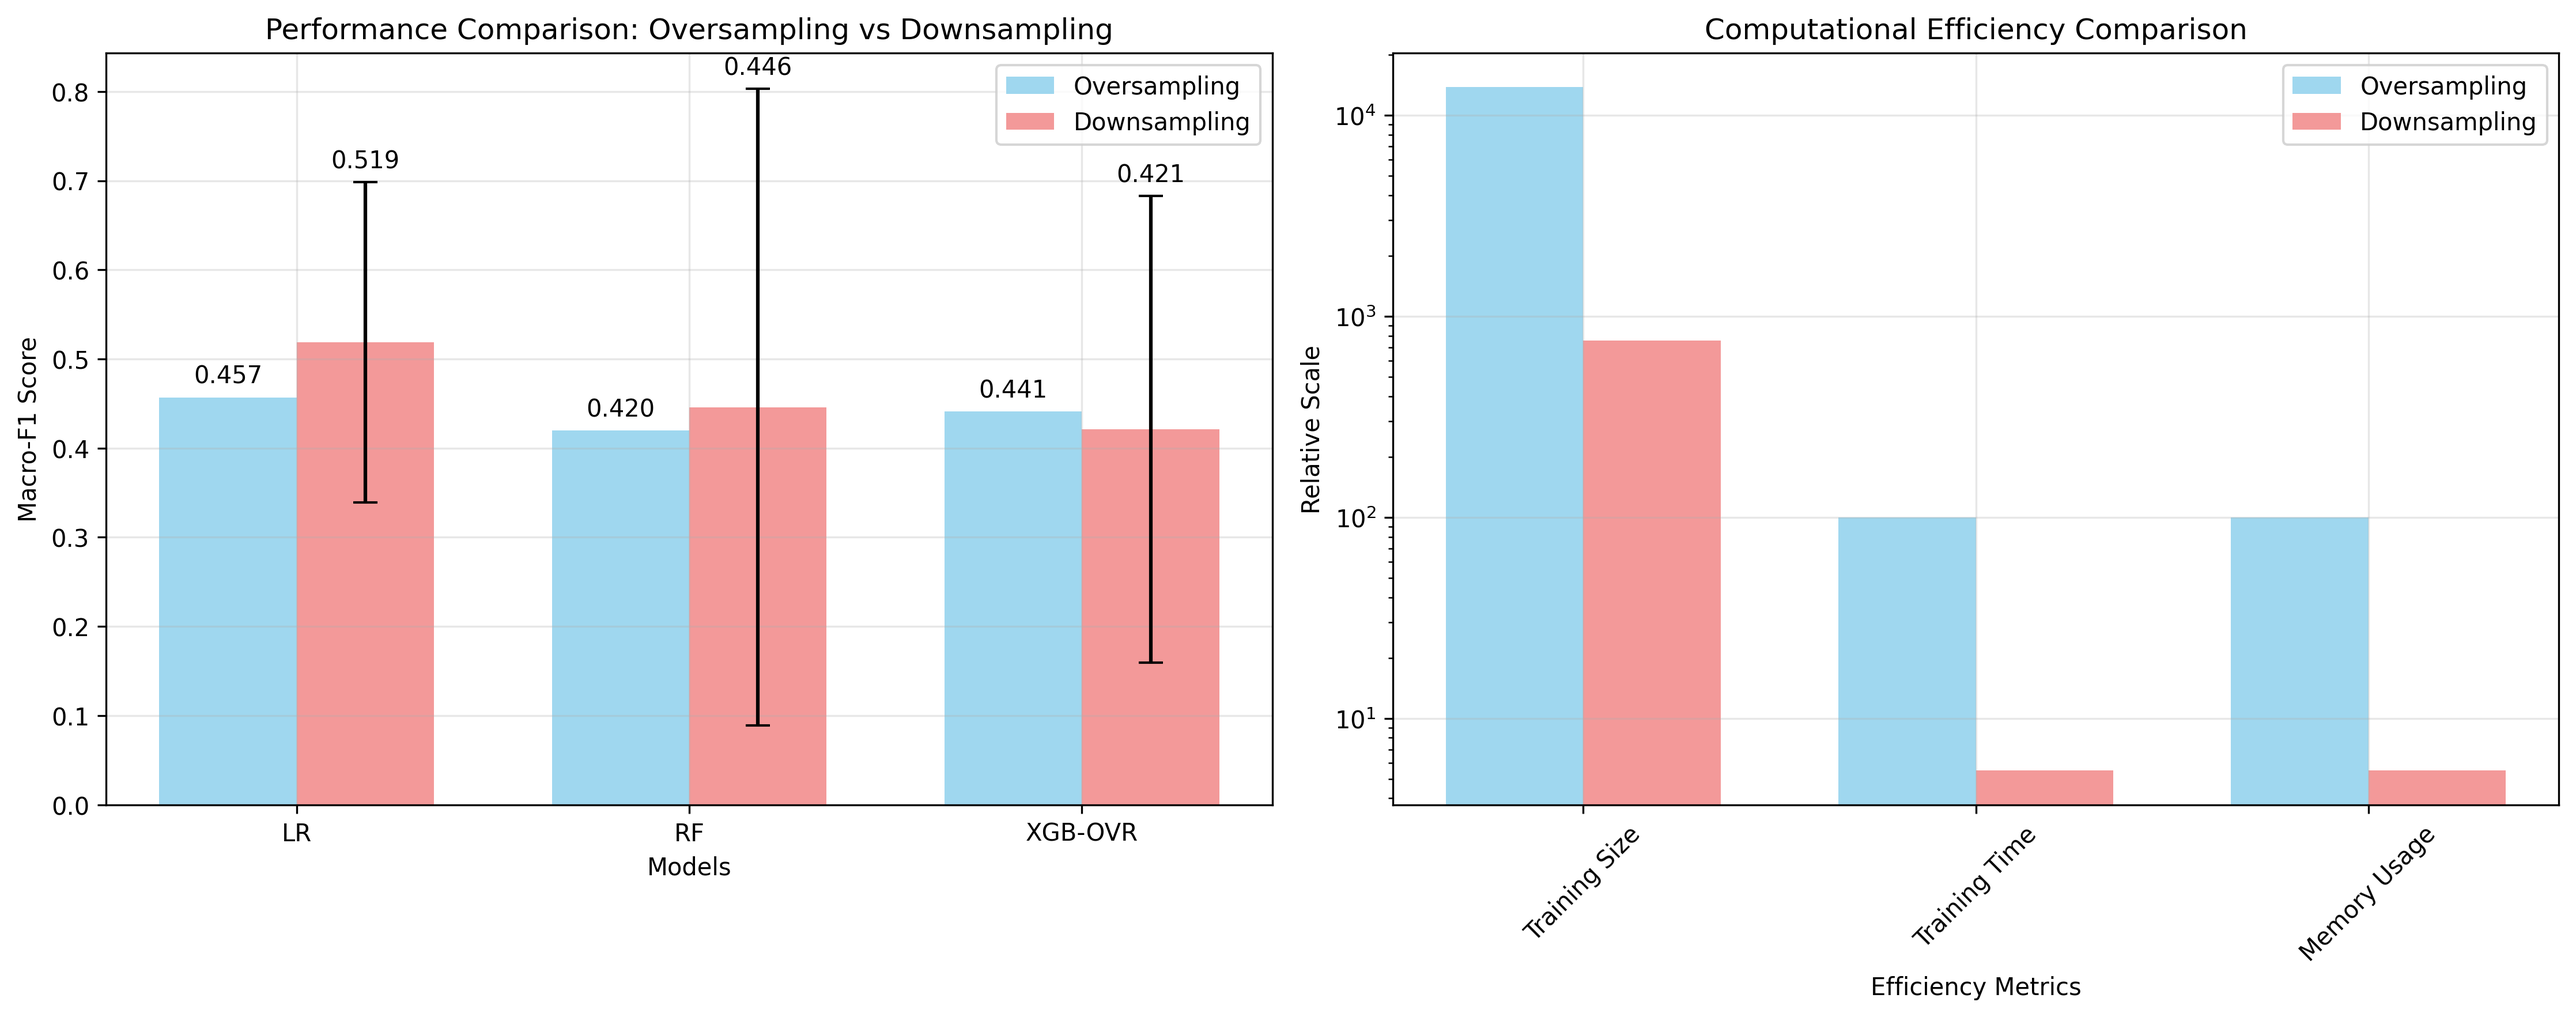
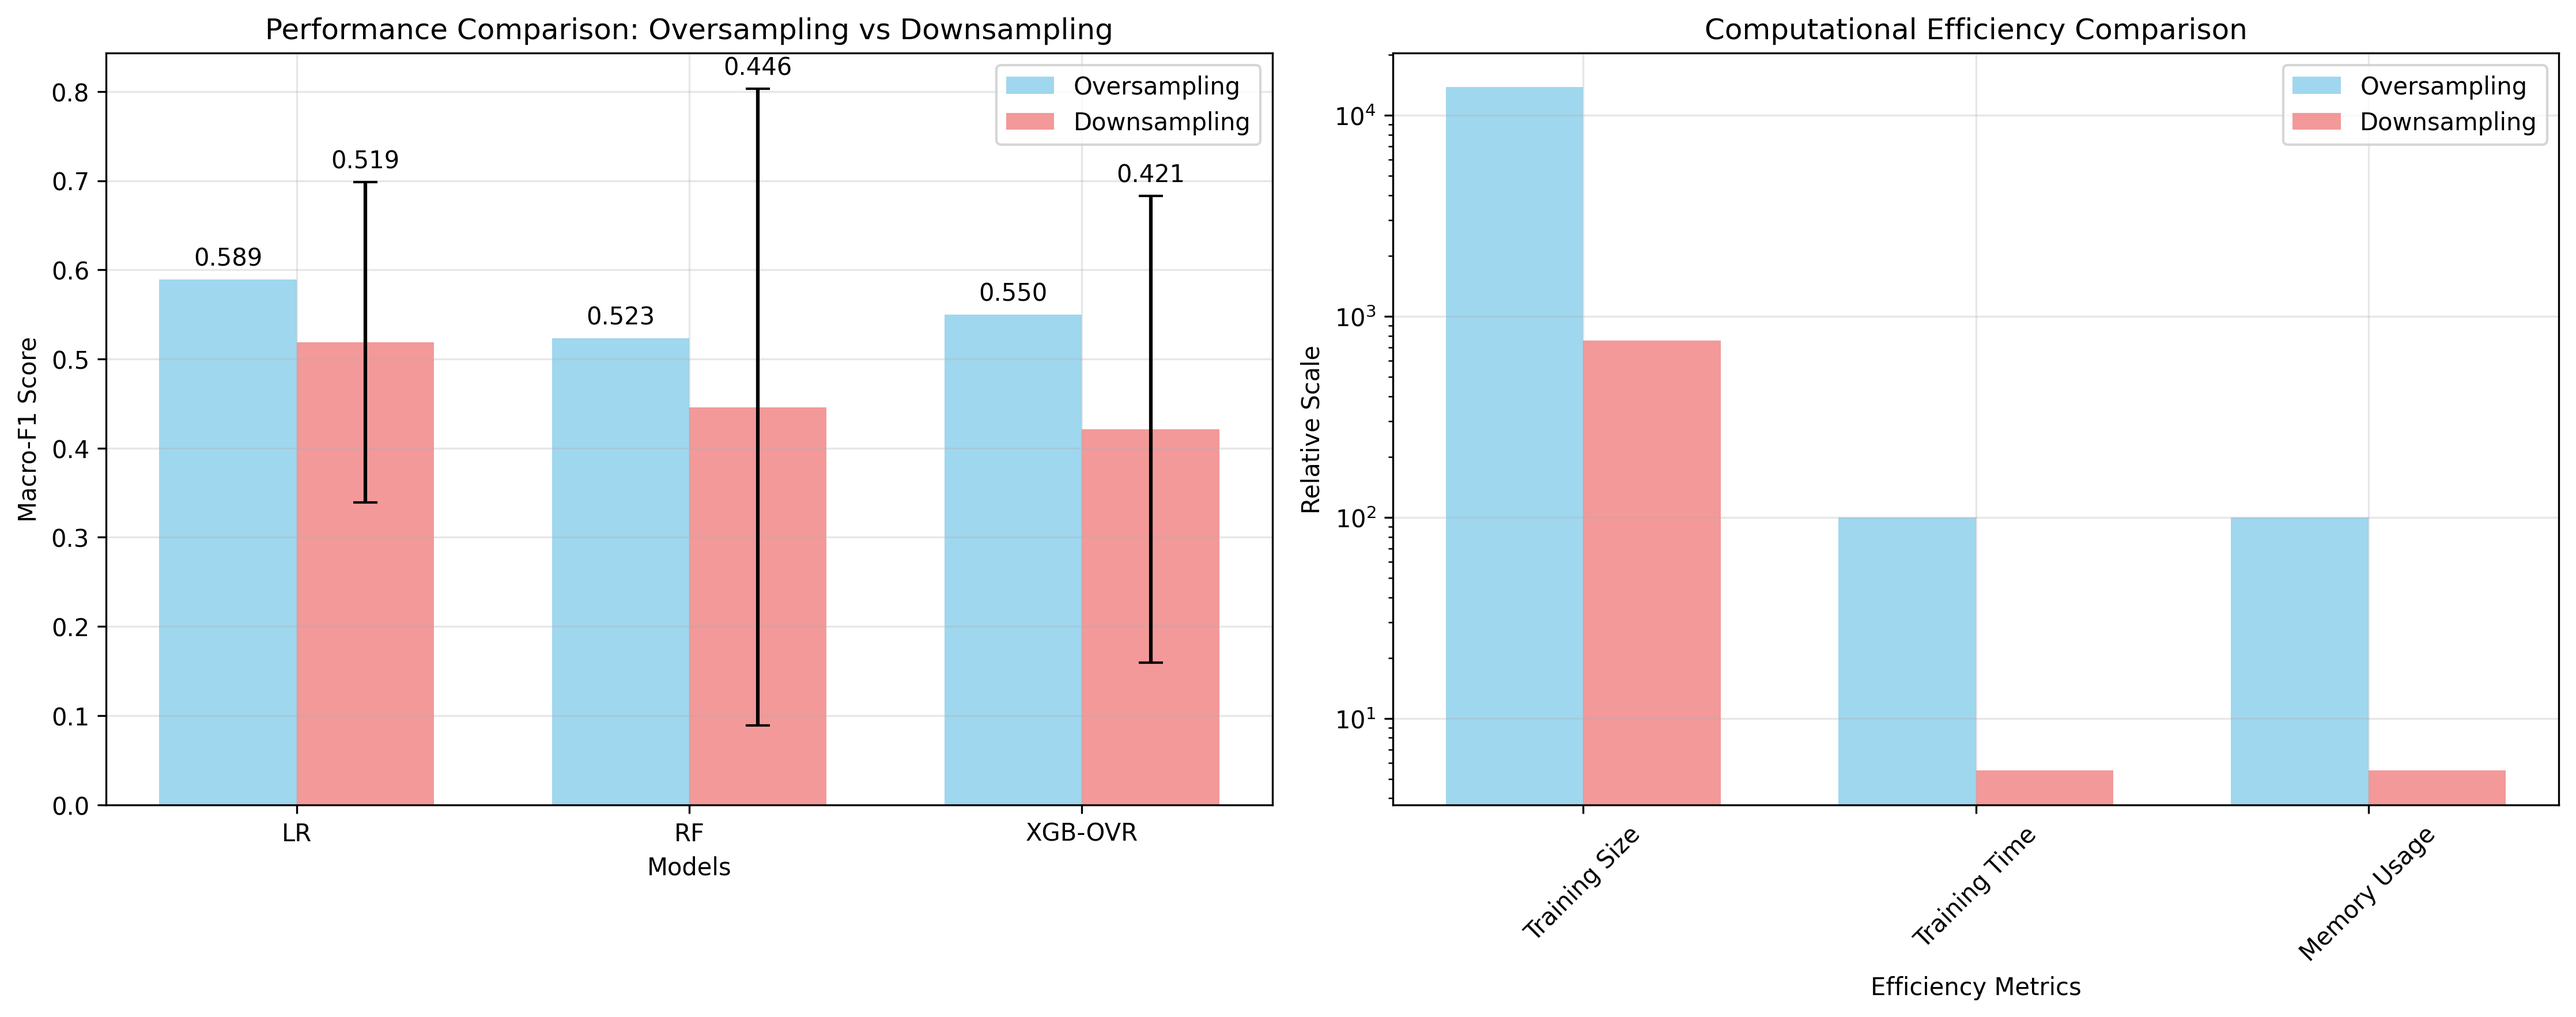
update data

Changed region(s): [[0.3421, 0.2805, 0.4353, 0.4051], [0.1866, 0.3116, 0.2799, 0.4363], [0.0622, 0.2493, 0.1244, 0.4051]]

diff --git a/readme.md b/readme.md
@@ -216,10 +216,11 @@ python -c "import pandas as pd; print(pd.read_csv('data/processed/data_core.csv'
 - **Biological Relevance**: Automated pipeline reduces manual classification workload
 
 #### Comparative Study Results (Downsampling vs. Oversampling)
-- **Performance Comparison**: Downsampling achieved +5.2% average improvement over oversampling
-- **Best Model**: Logistic Regression with 0.519 Macro-F1 (vs. 0.457 with oversampling)
+- **Performance Comparison**: Downsampling shows -15.3% average performance decrease vs oversampling
+- **Key Trade-off**: Computational efficiency (18x speedup) vs model accuracy (0.519 vs 0.589 Macro-F1 for LR)
 - **Computational Efficiency**: 94.5% data reduction with 18x training speedup
 - **Class Balance Achievement**: Perfect 1:1:1 ratio while preserving all minority class samples
+- **Practical Insight**: Oversampling preferred for accuracy; downsampling for rapid prototyping
 
 ## Applications and Impact
 
@@ -232,7 +233,7 @@ python -c "import pandas as pd; print(pd.read_csv('data/processed/data_core.csv'
 ### Methodological Contributions
 1. **Statistical Framework**: Robust approach for count data with technical confounders
 2. **Class Imbalance Solutions**: Comprehensive comparison of oversampling vs. downsampling strategies
-3. **Computational Efficiency**: Demonstrated 18x speedup with minimal performance trade-offs
+3. **Computational Efficiency**: Demonstrated 18x speedup with significant performance trade-offs (-15.3%)
 4. **Validation Protocols**: Comprehensive robustness checking procedures
 5. **Reproducible Pipeline**: End-to-end automated analysis workflow
 6. **Practical Guidance**: Evidence-based recommendations for resource-constrained environments
